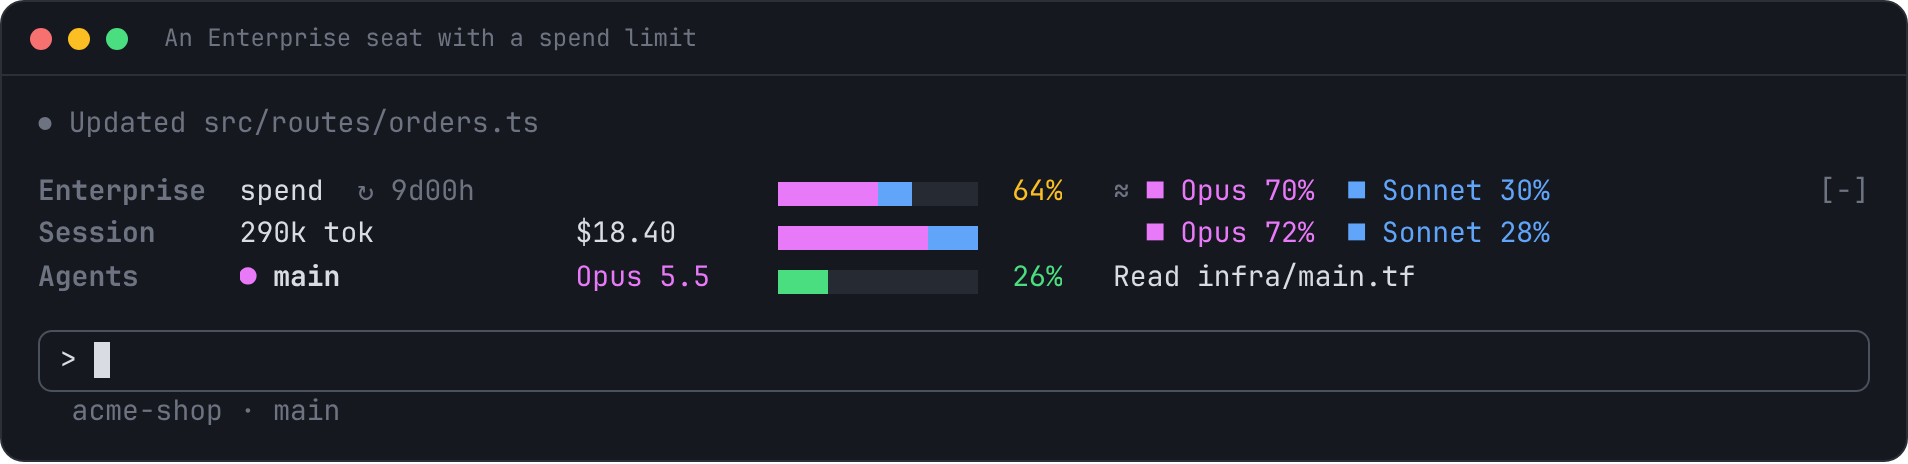
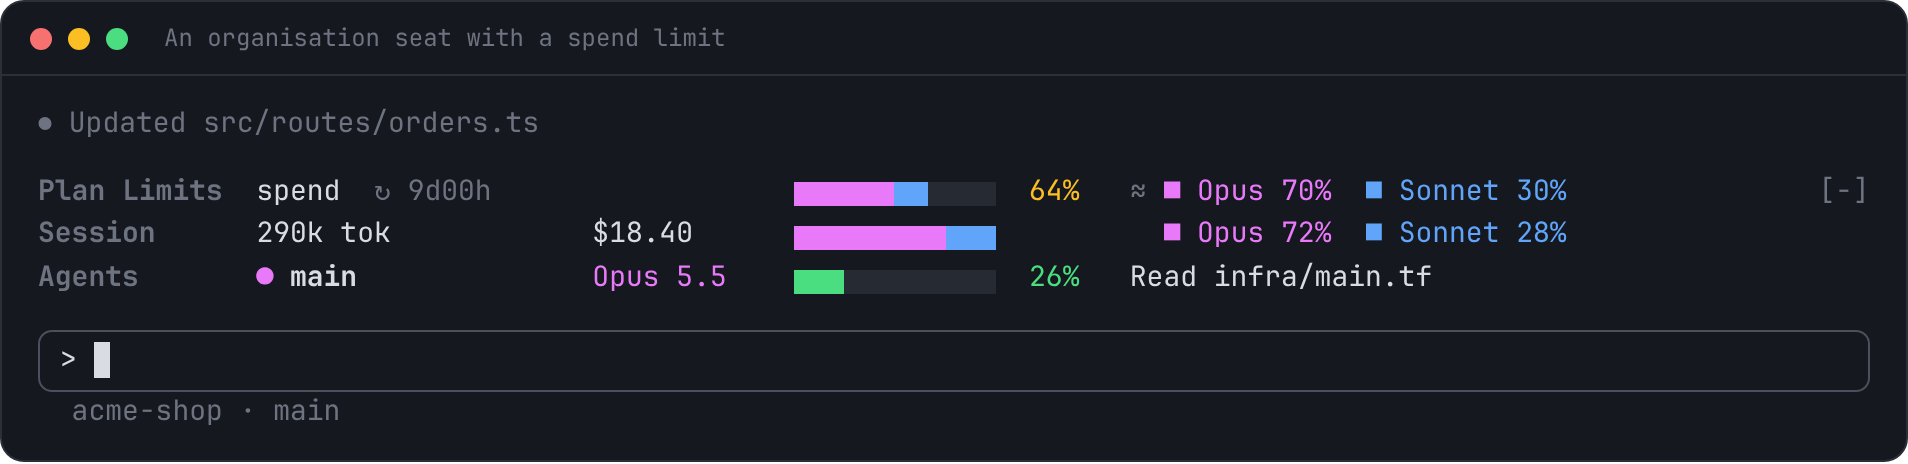
fix: head the plan row Plan Limits for every account (#5)

diff --git a/hooks/layout.ts b/hooks/layout.ts
@@ -19,7 +19,6 @@ export type View = {
   loops: Readonly<Record<string, LoopLive>>
   isCollapsed: boolean
   settings: Settings
-  planName?: string
 }
 
 type Row = { guides: string; glyph: string; name: string; live: LoopLive; activity: string; isMain?: boolean; isIdle?: boolean }
@@ -38,8 +37,8 @@ const total = (parts: [Family, number][]): number => parts.reduce((sum, [, n]) =
 const shares = (t: FamilyTokens): [Family, number][] => FAMILIES.flatMap(f => (t[f] ? [[f, t[f]] as [Family, number]] : []))
 const byFamily = (parts: [Family, number][]): [string, number][] => parts.map(([f, n]) => [FAMILY_COLOUR[f], n])
 const waiting = (n: number): string | undefined => (n ? `waiting on ${n} agent${n === 1 ? '' : 's'}` : undefined)
-const planTitle = (v: View): string => v.planName ?? 'Plan Limits'
-const label = (text: string, v: View): Seg => seg(pad(text, Math.max(9, planTitle(v).length + 2)), HEADING)
+const PLAN = 'Plan Limits'
+const label = (text: string): Seg => seg(pad(text, PLAN.length + 2), HEADING)
 /** Wide enough for every row's key, a long window name and its reset time included. */
 const keyWidth = (v: View, narrow: boolean): number => Math.max(narrow ? 16 : 20, ...v.limits.map(w => windowLabel(w.kind).length + 10))
 const planHealth = (w: LimitWindow, v: View): Health => healthOf(w.percentUsed, 100, v.settings.warn, v.settings.danger)
@@ -73,7 +72,7 @@ type Cells = { key: Line; model?: Seg; bar?: Line; value?: Seg; detail: Line | (
 /** One row of the grid: label, key, model, bar and value columns, then as much detail as fits. */
 function row(heading: string, c: Cells, v: View, narrow: boolean): Line {
   const line = [
-    label(heading, v),
+    label(heading),
     ...column(c.key, keyWidth(v, narrow)),
     ...column(c.model ? [c.model] : [], narrow ? 8 : 12),
     ...(narrow ? [] : column(c.bar ?? [], BAR + 2)),
@@ -98,12 +97,7 @@ export function contextOf(live: LoopLive, main: MainContext & LoopLive, settings
 }
 
 function planLines(v: View, narrow: boolean): Line[] {
-  const name = planTitle(v)
-  if (!v.limits.length) {
-    const note = !shares(v.sessionTokens).length ? 'appears after the first reply' : v.planName && 'no usage limits reported'
-
-    return note ? [[label(name, v), seg(note, DIM)]] : []
-  }
+  if (!v.limits.length) return shares(v.sessionTokens).length ? [] : [[label(PLAN), seg('appears after the first reply', DIM)]]
 
   const kindWidth = Math.max(...v.limits.map(w => windowLabel(w.kind).length)) + 2
 
@@ -118,7 +112,7 @@ function planLines(v: View, narrow: boolean): Line[] {
       detail: w.percentUsed >= 100 ? [seg('limited', { color: HEALTH_COLOUR.bad, bold: true })] : room => legend(parts, room, '≈ '),
     }
 
-    return row(i ? '' : name, cells, v, narrow)
+    return row(i ? '' : PLAN, cells, v, narrow)
   })
 }
 
@@ -169,7 +163,7 @@ function agentLines(v: View, narrow: boolean): Line[] {
 function collapsedLine(v: View): Line {
   const line: Line = []
   if (v.settings.showPlan && v.limits.length) {
-    line.push(seg(`${planTitle(v)} `, HEADING))
+    line.push(seg(`${PLAN} `, HEADING))
     v.limits.forEach((w, i) => line.push(seg(`${i ? ' · ' : ''}${windowLabel(w.kind)} `), healthSeg(percent(w.percentUsed), planHealth(w, v))))
     line.push(seg('   '))
   }

diff --git a/hooks/register.tsx b/hooks/register.tsx
@@ -6,7 +6,7 @@ import { type UsageLog, addTo, hourOf, merge, splitFor, weigh } from './estimate
 import { describeTool } from './format'
 import { type Line, buildLines } from './layout'
 import { familyOf } from './palette'
-import { overrideFrom, planNameFrom, settingsFrom } from './settings'
+import { overrideFrom, settingsFrom } from './settings'
 import { isLive } from './tree'
 
 const MAIN = 'main'
@@ -22,7 +22,6 @@ const planSplit = atom({ plugin: 'context-canopy', key: 'planSplit' } as const, 
 const roster = atom({ plugin: 'context-canopy', key: 'roster' } as const, [] as AgentRow[])
 const loops = atom({ plugin: 'context-canopy', key: 'loops' } as const, {} as Record<string, LoopLive>)
 const isCollapsed = atom({ plugin: 'context-canopy', key: 'isCollapsed' } as const, false)
-const planName = atom({ plugin: 'context-canopy', key: 'planName' } as const, null as string | null)
 const overrides = atom({ plugin: 'context-canopy', key: 'overrides' } as const, {} as Overrides)
 
 let log: UsageLog = {}
@@ -107,11 +106,10 @@ async function snapshot($: EngineInterface, width: number, collapsed?: boolean):
     loops: allLoops,
     isCollapsed: collapsed ?? (await read($, isCollapsed)),
     settings: settingsFrom(await read($, overrides)),
-    planName: (await read($, planName)) ?? undefined,
   })
 }
 
-async function status($: EngineInterface): Promise<string> {
+async function statusReport($: EngineInterface): Promise<string> {
   const surfaces = await $.session.surfaces()
   const drawn = Object.entries(asks).map(([surface, a]) => `${surface}: asked ${a.count}×, ${a.columns} cols, ${a.lines} lines`)
 
@@ -138,9 +136,6 @@ export const register: Register = on => {
     log = ((await $.store.get(LOG_KEY)) ?? {}) as UsageLog
     const saved = ((await $.store.get(SETTINGS_KEY)) ?? {}) as Overrides
     await update($, overrides, () => saved)
-    // Claude Code shares the organisation's plan only with organisation-managed installs.
-    const identity = await $.session.identity().catch(() => undefined)
-    await update($, planName, () => planNameFrom(identity?.organizationType) ?? null)
     await $.command.register({
       name: 'canopy',
       description: 'Collapse, expand or adjust the Context Canopy band',
@@ -204,7 +199,7 @@ export const register: Register = on => {
 
   on('command.run', { command: 'canopy' }, async ($, e) => {
     const [arg = '', size, value] = e.args.trim().toLowerCase().split(/\s+/)
-    if (arg === 'status') return { text: await status($) }
+    if (arg === 'status') return { text: await statusReport($) }
     if (arg === 'reset') return { text: await setOverrides($, () => ({})) }
     if (arg === 'set') {
       const change = overrideFrom(size, value)

diff --git a/tests/layout.test.ts b/tests/layout.test.ts
@@ -138,22 +138,8 @@ test('an agent with no description or name still draws', async () => {
   expect(lines[lines.length - 1]).toMatch(/└─● general-purpose/)
 })
 
-describe('plan name', () => {
-  test('the top row carries the plan name, and every line stays aligned', async () => {
-    const lines = buildLines(base({ planName: 'Enterprise' })).map(text)
-    expect(lines[0]).toMatch(/^Enterprise  5h /)
-    expect(lines[2]).toMatch(/^Session     \d/)
-    expect(lines[3]).toMatch(/^Agents      ● main/)
-  })
-
-  test('a named plan with no limits says so; an unnamed one stays quiet', async () => {
-    expect(text(buildLines(base({ limits: [], planName: 'Enterprise' }))[0])).toMatch(/^Enterprise +no usage limits reported/)
-    expect(text(buildLines(base({ limits: [] }))[0])).toMatch(/^Session/)
-  })
-
-  test('the collapsed line uses it too', async () => {
-    expect(text(buildLines(base({ planName: 'Max 20x', isCollapsed: true }))[0])).toMatch(/^Max 20x 5h 48%/)
-  })
+test('with no limits reported, the plan line stays quiet once Claude has replied', async () => {
+  expect(text(buildLines(base({ limits: [] }))[0])).toMatch(/^Session/)
 })
 
 test('a long window name is kept whole, and the reset times still line up', async () => {

diff --git a/tests/helpers.test.ts b/tests/helpers.test.ts
@@ -4,7 +4,7 @@ import type { AgentRow } from '../types'
 import { apportion, clip, describeTool, tokens, until, windowLabel } from '../hooks/format'
 import { merge, splitFor, weigh } from '../hooks/estimate'
 import { familyOf, healthOf, modelLabel } from '../hooks/palette'
-import { overrideFrom, planNameFrom, settingsFrom } from '../hooks/settings'
+import { overrideFrom, settingsFrom } from '../hooks/settings'
 import { buildTree, flatten } from '../hooks/tree'
 
 const agent = (id: string, parentId?: string, status = 'running'): AgentRow => ({
@@ -161,16 +161,5 @@ describe('settings', () => {
     expect(overrideFrom('split', 'off')).toEqual({ split: false })
     expect(overrideFrom('amber', 'lots')).toBeUndefined()
     expect(overrideFrom('colour', 'on')).toBeUndefined()
-  })
-})
-
-describe('plan name', () => {
-  test('an organisation plan is read when Claude Code shares it', async () => {
-    expect(planNameFrom('claude_enterprise')).toBe('Enterprise')
-    expect(planNameFrom('claude_new_tier')).toBe('New Tier')
-  })
-
-  test('nothing shared leaves the default', async () => {
-    expect(planNameFrom()).toBeUndefined()
   })
 })

diff --git a/docs/preview.html b/docs/preview.html
@@ -503,8 +503,8 @@ code, kbd { font-family: var(--f-mono); font-size: 0.86em; background: var(--chi
       files: ['docs/screenshots/* (to add)'],
       check: ['claude --plugin-dir . shows the band as in these mock-ups'] },
     { n: 8, title: 'Release', state: 'in part',
-      what: ['Done: version 0.1.0, icon at .claude-plugin/icon.png, CHANGELOG', 'Still to do: rename the repo, merge to main, tag v0.1.0, make public, submit to the plugin directory'],
-      files: ['.claude-plugin/icon.png', 'CHANGELOG.md'],
+      what: ['Done: version 0.1.0, icon, CHANGELOG', 'Still to do: rename the repo, merge to main, tag v0.1.0, make public, submit to the plugin directory'],
+      files: ['CHANGELOG.md'],
       check: ['A fresh machine can run /plugin install context-canopy --marketplace jonw09/context-canopy'] },
   ];
   const sh = document.getElementById('steps');

diff --git a/hooks/settings.ts b/hooks/settings.ts
@@ -32,11 +32,3 @@ export function overrideFrom(key = '', value = ''): Overrides | undefined {
 
   return undefined
 }
-
-/** The organisation's plan (`claude_enterprise` → `Enterprise`), where Claude Code shares it. */
-export const planNameFrom = (organizationType = ''): string | undefined =>
-  organizationType
-    .replace(/^claude_/, '')
-    .split('_')
-    .map(word => word.charAt(0).toUpperCase() + word.slice(1))
-    .join(' ') || undefined

diff --git a/types/index.d.ts b/types/index.d.ts
@@ -42,7 +42,6 @@ declare module 'claude-code' {
       roster: AgentRow[]
       loops: Record<string, LoopLive>
       isCollapsed: boolean
-      planName: string | null
       overrides: Overrides
     }
   }

diff --git a/README.md b/README.md
@@ -1,16 +1,8 @@
-<p align="center">
-  <img src=".claude-plugin/icon.png" width="96" alt="Context Canopy icon">
-</p>
+# Context Canopy
 
-<h1 align="center">Context Canopy</h1>
+Your plan limits, session usage and every running agent, in one band above the Claude Code prompt.
 
-<p align="center">
-  Your plan limits, session usage and every running agent, in one band above the Claude Code prompt.
-</p>
-
-<p align="center">
-  <img src="docs/images/band.png" alt="The Context Canopy band above the Claude Code prompt, showing plan windows, session usage by model and a tree of four agents with context bars in green, amber and red">
-</p>
+![The Context Canopy band above the Claude Code prompt, showing plan windows, session usage by model and a tree of four agents with context bars in green, amber and red](docs/images/band.png)
 
 ## What it shows
 
@@ -57,7 +49,7 @@ Watch the tree grow under `main`, each agent's context bar fill, and its current
 
 ### Plan
 
-<img src="docs/images/limit.png" alt="Plan line near the limit: the 5-hour window at 93% in red and the 7-day window at 71% in amber">
+![Plan line near the limit: the 5-hour window at 93% in red and the 7-day window at 71% in amber](docs/images/limit.png)
 
 - The bar shows how full the window is, coloured by the models that used it.
 - The percentage turns **amber from 60%** and **red from 90%**. You can move both with [`/canopy set`](#settings).
@@ -66,7 +58,7 @@ Watch the tree grow under `main`, each agent's context bar fill, and its current
 
 The plan line appears after Claude's first reply, when your limits are first reported.
 
-**The row's name.** Claude Code doesn't tell plugins which plan you're on, so the row is headed **Plan Limits**. If your organisation installs Context Canopy through managed settings, Claude Code shares the organisation's plan and the row is headed with it instead, for example **Enterprise**.
+**The row's name.** Claude Code doesn't tell plugins which plan you're on, so the row is headed **Plan Limits**.
 
 **Team, Enterprise and API keys.** What the line shows depends on what Claude reports for your account:
 
@@ -74,10 +66,10 @@ The plan line appears after Claude's first reply, when your limits are first rep
 | --- | --- |
 | Pro, Max, Team seats with usage limits | The 5-hour and 7-day windows |
 | A spend limit (organisations using a Claude gateway) | A `spend` window: the percentage used and when it resets. Claude reports the percentage only, not the dollar amounts. |
-| No limits reported (an uncapped seat) | Where the organisation's plan is known: `no usage limits reported`. Otherwise the line is left out. |
+| No limits reported (an uncapped seat) | The line is left out. |
 | API key | The line is left out. The session line shows what you've spent. |
 
-<img src="docs/images/enterprise.png" alt="An Enterprise band: a spend window at 64% resetting in 9 days, and the session's cost of $18.40">
+![A band for an organisation seat: a spend window at 64% resetting in 9 days, and the session's cost of $18.40](docs/images/enterprise.png)
 
 ### Session
 
@@ -85,7 +77,7 @@ Total tokens and cost for this session, with a bar and percentages split by mode
 
 ### Agents
 
-<img src="docs/images/solo.png" alt="A solo session: the main agent at 41% context, editing a file">
+![A solo session: the main agent at 41% context, editing a file](docs/images/solo.png)
 
 Each row shows:
 
@@ -121,11 +113,11 @@ These are the same 60% and 90% points as the plan line, and [`/canopy set`](#set
 | `/canopy set …` | Change a setting (see [Settings](#settings)) |
 | `/canopy reset` | Put every setting back to its default |
 
-<img src="docs/images/collapsed.png" alt="The collapsed band: one line with plan percentages, session totals, agent count, one agent needing compaction and main at 37%">
+![The collapsed band: one line with plan percentages, session totals, agent count, one agent needing compaction and main at 37%](docs/images/collapsed.png)
 
 In a narrow terminal the band drops the bars, shortens model names and keeps every number in its column:
 
-<img src="docs/images/narrow.png" width="620" alt="The band in a 60-column terminal, without bars, with percentages still in one column">
+![The band in a 60-column terminal, without bars, with percentages still in one column](docs/images/narrow.png)
 
 ## Settings
 
@@ -156,7 +148,15 @@ If the band doesn't appear, run `/canopy status`. It lists which apps are attach
 - **How tokens are counted.** Fresh input, output and cache writes count in full. Cache reads count at a tenth, which is how they're priced, so the totals reflect real usage rather than the same context re-read on every request.
 - **Subagent windows.** Agents get a 200k context window, or 1M for `[1m]` models, unless they run on the same model as the main session.
 - **Teammates in their own pane** show in the tree with `—` for context, because their usage isn't visible to this session.
-- **Private and read-only.** Nothing leaves your machine. The usage log stays in Claude Code's local plugin store, and the plugin never blocks tools, changes prompts or calls the model.
+
+## What it reads and changes
+
+Context Canopy only reads, and nothing leaves your machine. It makes no network requests, calls no model and sends nothing anywhere.
+
+- **What it reads:** this session's token counts, cost and rate-limit windows, the list of running agents, and the apps attached to the session (for `/canopy status`). As Claude works, it reads each agent's model and token counts and the tool each one calls, with that tool's main argument (a file path, search pattern or shell command), to show what each agent is doing.
+- **What it stores:** an hourly count of tokens per model, for the `≈` estimate, and your `/canopy set` choices. Both stay in Claude Code's local plugin store on this machine.
+- **What its hooks change:** nothing. Every event it hooks is passed on unchanged. It reads `agent.spawn` only for the new agent's id and model, and `tool.call` only for the activity shown in the tree. It never blocks a tool, rewrites a prompt or changes settings.
+- **What it adds:** the `/canopy` command, which it answers itself. It adds no tools and no agents, and it handles no other command.
 
 ## Update or remove
 

diff --git a/docs/DESIGN.md b/docs/DESIGN.md
@@ -49,7 +49,7 @@ Checked against the Claude Code 2.1.306 plugin API.
 - **No per-model cost.** The session line splits by tokens instead.
 - **No subagent window size.** 200k by default, 1M for `[1m]` models, or the main session's window when the model matches. Each agent's compaction point is its window scaled by the main session's compaction ratio.
 - **Teammates in their own terminal pane** run no loop in this process: status only, `—` for context.
-- **No plan name.** `$.session.identity()` answers only mods that organisation-managed settings install, and then gives `organizationType` (`claude_team`, `claude_enterprise`). Everyone else sees **Plan Limits**. The login file on disk was considered and left alone: it is undocumented, varies by platform and sits beside credentials.
+- **No plan name.** Claude Code doesn't tell plugins which plan you're on, so the row is headed **Plan Limits**. `$.session.identity()` gives the organisation's plan, but only to mods that organisation-managed settings install, and the directory reviews it as a credential read, so the plugin doesn't call it. The login file on disk was left alone too: it is undocumented, varies by platform and sits beside credentials.
 - **No dollar figures for spend limits.** A `spend_limit` window comes as a percentage and a reset time only.
 - **The mobile app on a cloud session attaches no drawing surface.** `$.session.surfaces()` is empty there, so nothing a plugin draws appears. `/canopy show` prints the band as text for that case.
 
